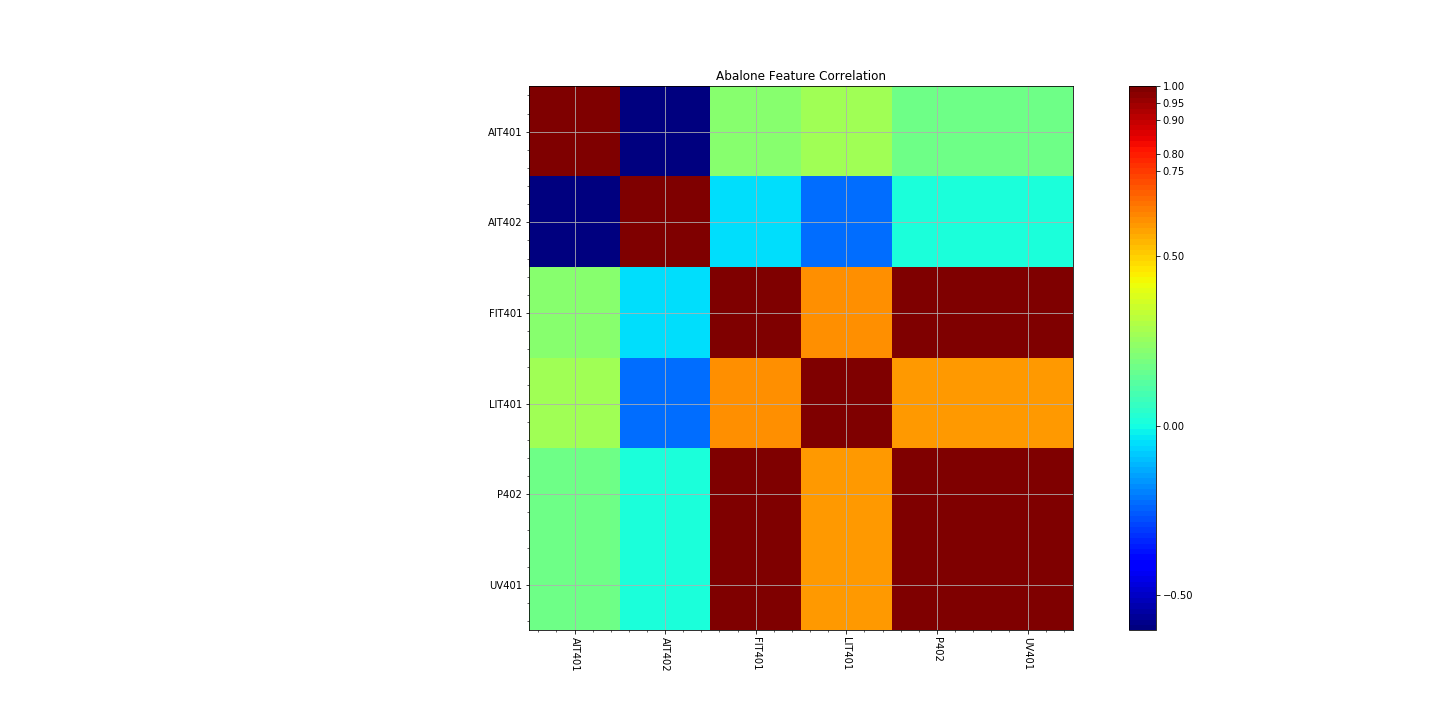
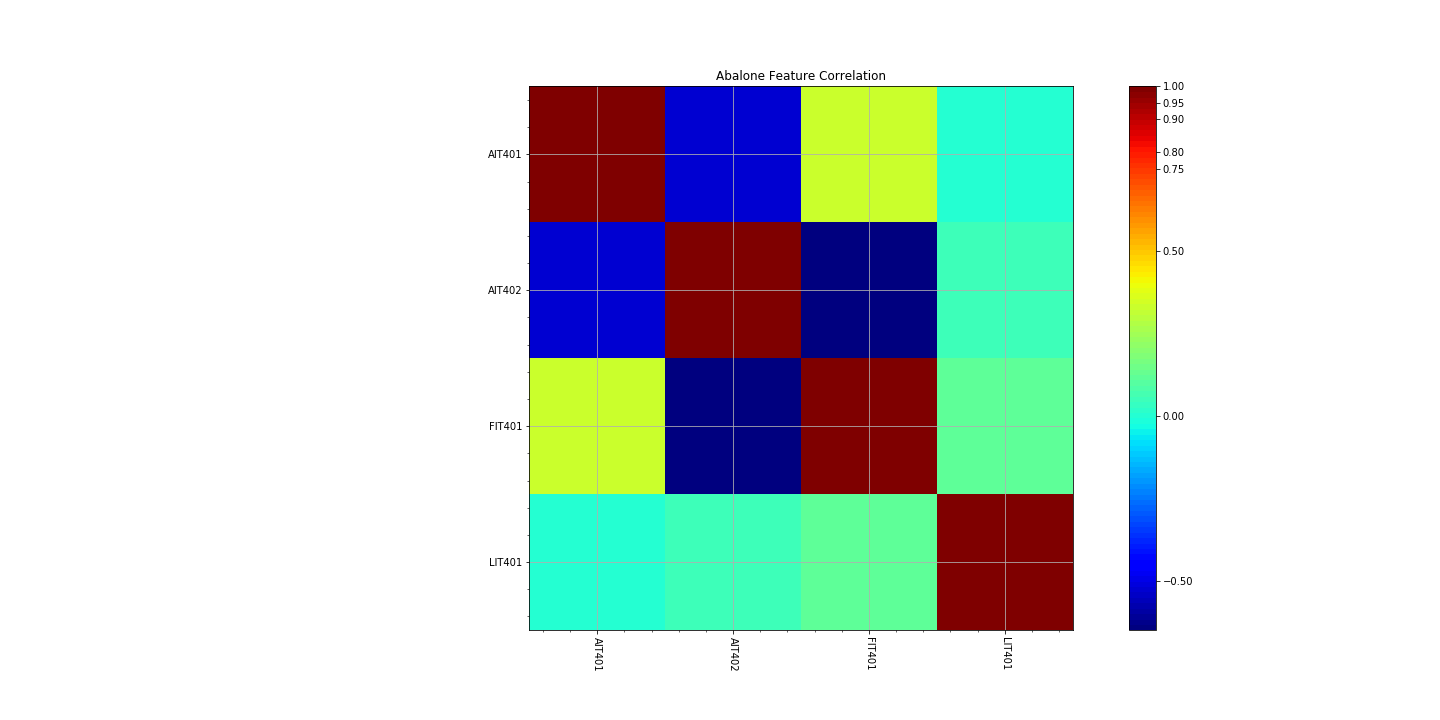
normalized data and updated correlations for 37 signals

diff --git a/anom_detection.py b/anom_detection.py
@@ -1,7 +1,7 @@
 
 # coding: utf-8
 
-# # Anomaly Detection Lab!
+# Anomaly Detection Lab!
 # Group 8: Azqa Nadeem, Jaya Chithra
 
 get_ipython().magic(u'matplotlib inline')
@@ -53,6 +53,13 @@ def correlation_matrix(df, labels, filename):
     plt.savefig(filename)
     plt.show()
 
+def normalize(maxmin, x):
+       maxi = maxmin.max()
+       mini = maxmin.min()
+       normalizedData = []
+       for i in x:
+           normalizedData.append((float(i)-mini)/(maxi-mini))
+       return normalizedData
 
 def string_to_timestamp(date_string):#convert time string to float value
     time_stamp = time.strptime(date_string, '%d/%m/%Y %H:%M:%S %p')
@@ -120,29 +127,79 @@ def TrainClassifier(clf, sm, usx, usy, cutoff):
         return (y_real, y_pred, y_proba)
 
 if __name__ == "__main__":
-    src = 'SWaT_Dataset_Normal_v0.csv'
+    src = 'normalize_normal.csv'
+    testFile = 'normalize_attack.csv'
+
     ####################### Correlation ################################
+    test = read_csv(testFile)    
     df = read_csv(src)
+    '''
+    test.FIT101 = normalize(df.FIT101, test.FIT101)
+    test.LIT101 = normalize(df.LIT101, test.LIT101)
+    test.MV101 = normalize(df.MV101, test.MV101)
+    test.P101 =  normalize(df.P101, test.P101)
+
+    test.AIT201 = normalize(df.AIT201, test.AIT201)
+    test.AIT202 = normalize(df.AIT202, test.AIT202)
+    test.AIT203 = normalize(df.AIT203, test.AIT203)
+    test.FIT201 =  normalize(df.FIT201, test.FIT201)
+    test.MV201 =  normalize(df.MV201, test.MV201)
+    test.P203 =  normalize(df.P203, test.P203)
+    test.P205 =  normalize(df.P205, test.P205)
+
+    test.DPIT301 = normalize(df.DPIT301, test.DPIT301)
+    test.FIT301 = normalize(df.FIT301, test.FIT301)
+    test.LIT301 = normalize(df.LIT301, test.LIT301)
+    test.MV301 =  normalize(df.MV301, test.MV301)
+    test.MV302 =  normalize(df.MV302, test.MV302)
+    test.MV303 =  normalize(df.MV303, test.MV303)
+    test.MV304 =  normalize(df.MV304, test.MV304)
+    test.P301 =  normalize(df.P301, test.P301)
+    test.P302 =  normalize(df.P302, test.P302)
+
+    test.AIT401 =  normalize(df.AIT401, test.AIT401)
+    test.AIT402 =  normalize(df.AIT402, test.AIT402)
+    test.FIT401 =  normalize(df.FIT401, test.FIT401)
+    test.LIT401 =  normalize(df.LIT401, test.LIT401)
+
+    test.AIT501 = normalize(df.AIT501, test.AIT501)
+    test.AIT502 = normalize(df.AIT502, test.AIT502)
+    test.AIT503 = normalize(df.AIT503, test.AIT503)
+    test.AIT504 =  normalize(df.AIT504, test.AIT504)
+    test.FIT501 =  normalize(df.FIT501, test.FIT501)
+    test.FIT502 =  normalize(df.FIT502, test.FIT502)
+    test.FIT503 =  normalize(df.FIT503, test.FIT503)
+    test.FIT504 =  normalize(df.FIT504, test.FIT504)
+    test.PIT501 =  normalize(df.PIT501, test.PIT501)
+    test.PIT502 =  normalize(df.PIT502, test.PIT502)
+    test.PIT503 =  normalize(df.PIT503, test.PIT503)
+
+    test.FIT601 =  normalize(df.FIT601, test.FIT601)
+    test.P602 =  normalize(df.P602, test.P602)
+
+    test.to_csv('normalize_attack.csv', sep=',')'''
+
+    '''
     p1 = {'FIT101': df.FIT101, 'LIT101': df.LIT101, 'MV101': df.MV101, 'P101': df.P101}
     p1_labels = ['FIT101', 'LIT101', 'MV101', 'P101']
     p2 = {'AIT201': df.AIT201, 'AIT202': df.AIT202, 'AIT203': df.AIT203, 'FIT201' :df.FIT201, 'MV201': df.MV201, 'P203' :df.P203, 'P205' : df.P205}
     p2_labels = ['AIT201', 'AIT202', 'AIT203', 'FIT201','MV201', 'P203', 'P205' ]
     p3 = {'DPIT301' : df.DPIT301, 'FIT301': df.FIT301, 'LIT301' : df.LIT301, 'MV301' : df.MV301, 'MV302' : df.MV302, 'MV303' : df.MV303, 'MV304' : df.MV304, 'P301' :df.P301, 'P302' : df.P302}
     p3_labels= ['DPIT301', 'FIT301', 'LIT301', 'MV301', 'MV302', 'MV303', 'MV304', 'P301', 'P302']
-    p4 = {'AIT401' : df.AIT401, 'AIT402': df.AIT402, 'FIT401' : df.FIT401, 'LIT401': df.LIT401, 'P402' : df.P402, 'UV401': df.UV401}
-    p4_labels = ['AIT401', 'AIT402', 'FIT401','LIT401', 'P402' ,'UV401']
-    p5 = {'AIT501':df.AIT501, 'AIT502': df.AIT502, 'AIT503': df.AIT503, 'AIT504': df.AIT504, 'FIT501': df.FIT501, 'FIT502': df.FIT502, 'FIT503': df.FIT503, 'FIT504' : df.FIT504, 'P501': df.P501, 'PIT501': df.PIT501, 'PIT502': df.PIT502, 'PIT503': df.PIT503}
-    p5_labels = ['AIT501', 'AIT502', 'AIT503' , 'AIT504', 'FIT501', 'FIT502', 'FIT503' ,'FIT504', 'P501', 'PIT501', 'PIT502', 'PIT503']
+    p4 = {'AIT401' : df.AIT401, 'AIT402': df.AIT402, 'FIT401' : df.FIT401, 'LIT401': df.LIT401}
+    p4_labels = ['AIT401', 'AIT402', 'FIT401','LIT401' ]
+    p5 = {'AIT501':df.AIT501, 'AIT502': df.AIT502, 'AIT503': df.AIT503, 'AIT504': df.AIT504, 'FIT501': df.FIT501, 'FIT502': df.FIT502, 'FIT503': df.FIT503, 'FIT504' : df.FIT504, 'PIT501': df.PIT501, 'PIT502': df.PIT502, 'PIT503': df.PIT503}
+    p5_labels = ['AIT501', 'AIT502', 'AIT503' , 'AIT504', 'FIT501', 'FIT502', 'FIT503' ,'FIT504', 'PIT501', 'PIT502', 'PIT503']
     p6 = {'FIT601':df.FIT601, 'P602': df.P602}
     p6_labels = ['FIT601', 'P602']
-
-    '''
+    
+    
     correlation_matrix(DataFrame(data=p1), p1_labels, 'p1.png')
     correlation_matrix(DataFrame(data=p2), p2_labels, 'p2.png')
     correlation_matrix(DataFrame(data=p3), p3_labels, 'p3.png')
     correlation_matrix(DataFrame(data=p4), p4_labels, 'p4.png')
     correlation_matrix(DataFrame(data=p5), p5_labels, 'p5.png')
-    correlation_matrix(DataFrame(data=p6), p6_labels, 'p6.png')'''
+    correlation_matrix(DataFrame(data=p6), p6_labels, 'p6.png')
 
     features = p1
     features.update(p2)
@@ -150,10 +207,16 @@ if __name__ == "__main__":
     features.update(p4)
     features.update(p5)
     features.update(p6)
-
+    
+    p1_labels.extend(p2_labels)
+    p1_labels.extend(p3_labels)
+    p1_labels.extend(p4_labels)
+    p1_labels.extend(p5_labels)
+    p1_labels.extend(p6_labels)
+    correlation_matrix(DataFrame(data=p1), p1_labels, 'all_normalized.png')'''
     #############################################################
 
-
+    
     ah = open(src, 'r')
     X = []#contains features
     y = []#contains labels
@@ -164,54 +227,89 @@ if __name__ == "__main__":
     for line_ah in ah:
 
         timestamp = string_to_timestamp(line_ah.strip().split(',')[0])# date
-        fit101 = line_ah.strip().split(',')[1]
-        lit101 = line_ah.strip().split(',')[2]
-        mv101 = line_ah.strip().split(',')[3]
-        p101 = line_ah.strip().split(',')[4] 
-
-        ait201 = line_ah.strip().split(',')[6]
-        ait202 = line_ah.strip().split(',')[7]
-        ait203 = line_ah.strip().split(',')[8]
-        fit201 = line_ah.strip().split(',')[9]
-        mv201 = line_ah.strip().split(',')[10]
-        p203 = line_ah.strip().split(',')[13]
-        p205 = line_ah.strip().split(',')[15]
+        fit101 = float(line_ah.strip().split(',')[1])
+        lit101 = float(line_ah.strip().split(',')[2])
+        mv101 = float(line_ah.strip().split(',')[3])
+        p101 = float(line_ah.strip().split(',')[4] )
+        
+        ait201 = float(line_ah.strip().split(',')[6])
+        ait202 = float(line_ah.strip().split(',')[7])
+        ait203 = float(line_ah.strip().split(',')[8])
+        fit201 = float(line_ah.strip().split(',')[9])
+        mv201 = float(line_ah.strip().split(',')[10])
+        p203 = float(line_ah.strip().split(',')[13])
+        p205 = float(line_ah.strip().split(',')[15])
    
-        dpit301 = line_ah.strip().split(',')[17]
-        fit301 = line_ah.strip().split(',')[18]
-        lit301 = line_ah.strip().split(',')[19]
-        mv301 = line_ah.strip().split(',')[20]
-        mv302 = line_ah.strip().split(',')[21]
-        mv303 = line_ah.strip().split(',')[22]
-        mv304 = line_ah.strip().split(',')[23]
-        p301 = line_ah.strip().split(',')[24]
-        p302 = line_ah.strip().split(',')[25]
+        dpit301 = float(line_ah.strip().split(',')[17])
+        fit301 = float(line_ah.strip().split(',')[18])
+        lit301 = float(line_ah.strip().split(',')[19])
+        mv301 = float(line_ah.strip().split(',')[20])
+        mv302 = float(line_ah.strip().split(',')[21])
+        mv303 = float(line_ah.strip().split(',')[22])
+        mv304 = float(line_ah.strip().split(',')[23])
+        p301 = float(line_ah.strip().split(',')[24])
+        p302 = float(line_ah.strip().split(',')[25])
+        
+        ait401 = float(line_ah.strip().split(',')[26])
+        ait402 = float(line_ah.strip().split(',')[27])
+        fit401 = float(line_ah.strip().split(',')[28])
+        lit401 = float(line_ah.strip().split(',')[29])
 
+        ait501 = float(line_ah.strip().split(',')[35])
+        ait502 = float(line_ah.strip().split(',')[36])
+        ait503 = float(line_ah.strip().split(',')[37])
+        ait504 = float(line_ah.strip().split(',')[38])
+        fit501 = float(line_ah.strip().split(',')[39])
+        fit502 = float(line_ah.strip().split(',')[40])
+        fit503 = float(line_ah.strip().split(',')[41])
+        fit504 = float(line_ah.strip().split(',')[42])
+        pit501 = float(line_ah.strip().split(',')[45])
+        pit502 = float(line_ah.strip().split(',')[46])
+        pit503 = float(line_ah.strip().split(',')[47])
 
+        fit601 = float(line_ah.strip().split(',')[48])
+        p602 = float(line_ah.strip().split(',')[50])
+        
 
-        #if line_ah.strip().split(',')[9] == 'Chargeback':
-        #    label = 1#label fraud
-        #else:
-        #    label = 0#label save
+        if line_ah.strip().split(',')[52] == 'Attack':
+            label = 1#label fraud
+        else:
+            label = 0#label save
         
         
         #FEATURE SELECTION
         data.append([fit101, lit101, mv101, p101,
                      ait201, ait202, ait203, fit201, mv201, p203, p205, 
-                     dpit301, fit301, lit301, mv301, mv302, mv303, mv304, p301, p302])   
+                     dpit301, fit301, lit301, mv301, mv302, mv303, mv304, p301, p302,
+                     ait401, ait402, fit401, lit401,
+                     ait501, ait502, ait503, ait504, fit501, fit502, fit503, fit504, pit501, pit502, pit503,
+                     fit601, p602])   
 
+    print 'done reading'
+    '''x_mean = data;
+    des = 'normal_data.csv'
+    ch_dfa = open(des,'w')
 
+    sentence = []
+    for i in range(len(x_mean)):
+        for j in range(len(x_mean[i])):
+            sentence.append(str(x_mean[i][j]))
+        sentence.append(str(y[i]))
+        ch_dfa.write(' '.join(sentence))
+        ch_dfa.write('\n')
+        sentence=[]
+        ch_dfa.flush()   
 
     pca = decomposition.PCA() # n_components=3 for dim red
-    X = pca.fit_transform(np.array(data))
-    x_train, x_test = train_test_split(X, test_size = 0.2)#test_size:
-    clf = svm.OneClassSVM(nu=0.1, kernel="rbf", gamma=0.1)
-    clf.fit(x_train)
-    y_pred_train = clf.predict(x_train)
-    y_pred_test = clf.predict(x_test)
+    X = pca.fit_transform(np.array(data))'''
+    #x_train, x_test = train_test_split(X, test_size = 0.2)#test_size:
+    #clf = svm.OneClassSVM(nu=0.1, kernel="rbf", gamma=0.1)
+    #clf.fit(x_train)
+    #y_pred_train = clf.predict(x_train)
+    #y_pred_test = clf.predict(x_test)
 
     
-    #X = pca.transform(np.array(data))
+#X = pca.transform(np.array(data))
 # Initialize the two classifiers 
 #clf1 = tree.DecisionTreeClassifier(max_depth=5)
 #clf2 = RandomForestClassifier(n_estimators=25)
